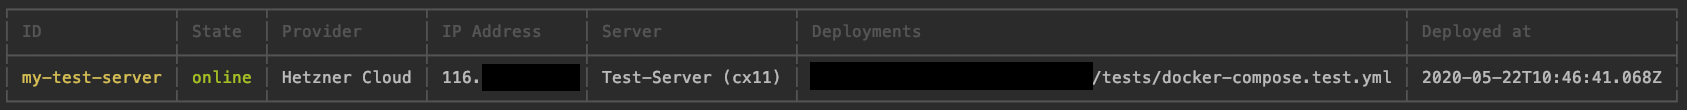
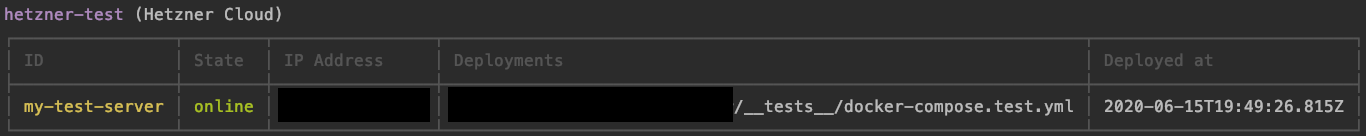
Update readme for hoster

diff --git a/README.md b/README.md
@@ -2,14 +2,17 @@
 clocker is a command line tool, that help you to set up remote server and deploy your docker-compose file with just a few commands.
 
 ```shell script
+// Register a new cloud hoster like DigitalOcean with your access token
+clocker hoster register
+
+// Create a server <my-server>
 clocker add
-// Configure your server <my-server>
 
-clocker start <my-server>
 // Create a new server based on configuration and provision it, ready for docker 
+clocker start <my-server>
 
-clocker deploy <my-server> ./docker-compose.yml
 // Deploy your project to the server. Exposed ports are reachable via server ip 
+clocker deploy <my-server> ./docker-compose.yml
 ```
 
 You can set up a new server in minutes, without any manual server configuration, destroy and re-create it anytime you need.
@@ -41,25 +44,32 @@ Only the minimal happy path is working for now.
 
 ## Overview
 See below for more details on how to [install](#Installation) and [use](#Usage) clocker.
-### Step 1: Configure a new server
+
+### Step 1: Register a hoster
+```shell script
+clocker hoster register
+```
+![Clocker hoster register step](./docs/assets/readme-hoster-register.png)
+
+### Step 2: Configure a new server
 ```shell script
 clocker add
 ```
 ![Clocker add step](./docs/assets/readme-add.png)
 
-### Step 2: Start your server
+### Step 3: Start your server
 ```shell script
 clocker start my-test-server
 ```
 ![Clocker start step](./docs/assets/readme-start.png)
 
-### Step 3: Deploy your project
+### Step 4: Deploy your project
 ```shell script
 clocker deploy my-test-server ./test/docker-compose.test.yml 
 ```
 ![Clocker deploy step](./docs/assets/readme-deploy.png)
 
-### Step 4: Check server
+### Step 5: Check server
 ```shell script
 clocker list
 ```
@@ -106,19 +116,30 @@ In your favorite cli, run:
 clocker init
 ```
 
-This will create a `.clocker` folder in your home directory, where clocker stores stuff about your servers.
+This will create a `.clocker` folder in your home directory, where clocker stores stuff about your hosters and servers.
 
-### List all configured servers
-You can get an overview of all servers configured, whether they are running or not and which projects have been deployed.
+### List all configured hosters with servers
+You can get an overview of all hosters and servers configured, whether they are running or not and which projects have been deployed.
 ```shell script
 clocker list
 ```
+
+### Register a hoster
+First of all you need to register a hoster. This is like an local instance of your cloud server provider and will register some remote resources like your ssh key.  
+That way you can easily add multiple server to the same hoster.
+```shell script
+clocker hoster register
+```
+A configuration wizard will ask you which cloud server provider you want to use and some questions based on your choice. After that, some resources will be created via terraform.  
+There is no server created yet.
+
+You can see all files that are created for your hoster in `.clocker/hosters/<your-hoster-id>` in your home directory.
 
 ### Add a server
 ```shell script
 clocker add
 ```
-A configuration wizard will ask you some questions about which provider you want to use and other configuration.  
+Another wizard will ask you some questions about which of your registered hoster you want to use and other configuration about the server.  
 **Nothing will be actually created yet**, so its save to play around.
 
 Under the hood, we use terraform to create templates on how your server should look like.  
@@ -168,6 +189,13 @@ If you want to completely remove a server in clocker, run:
 ```shell script
 clocker remove <my-server-id>
 ```
+
+### Unregister a hoster
+You can remove a hoster from clocker once all servers for that are removed by running:
+```shell script
+clocker hoster unregister <my-hoster-id>
+```
+This will destroy resources created via terraform from this cloud server provider and delete the local hoster directory.
 
 ### Customize / Eject
 clocker saves all configuration it needs to work with your server in a single directory at `.clocker/servers/<your-server-ip>`, including the terraform state.  
